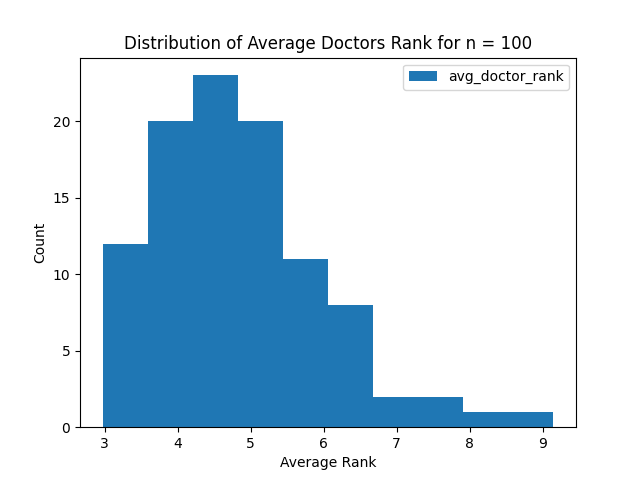
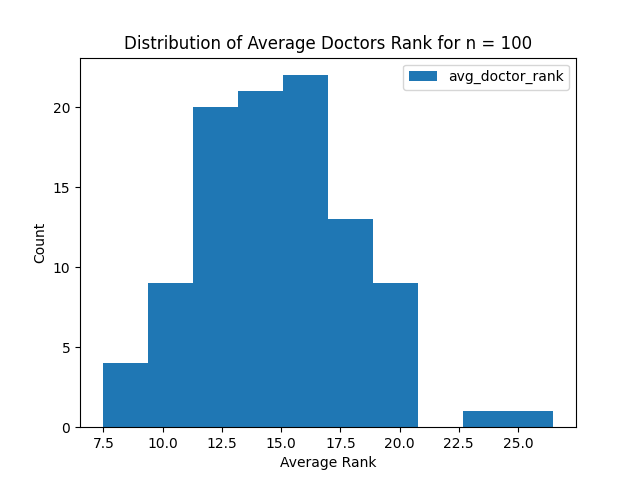
Update images

diff --git a/Gale-Shapley.py b/Gale-Shapley.py
@@ -47,10 +47,13 @@ def generate_distinct_numbers(n):
     '''
 
     start = 1
-    end = n**2
+    end = n**3
     
     # Generate n distinct random numbers between start and end
     random_numbers = random.sample(range(start, end + 1), n)
+    
+    # Uncomment the below line to do standard gale-shapley
+    #random_numbers = np.ones(n)
 
     return random_numbers
             
